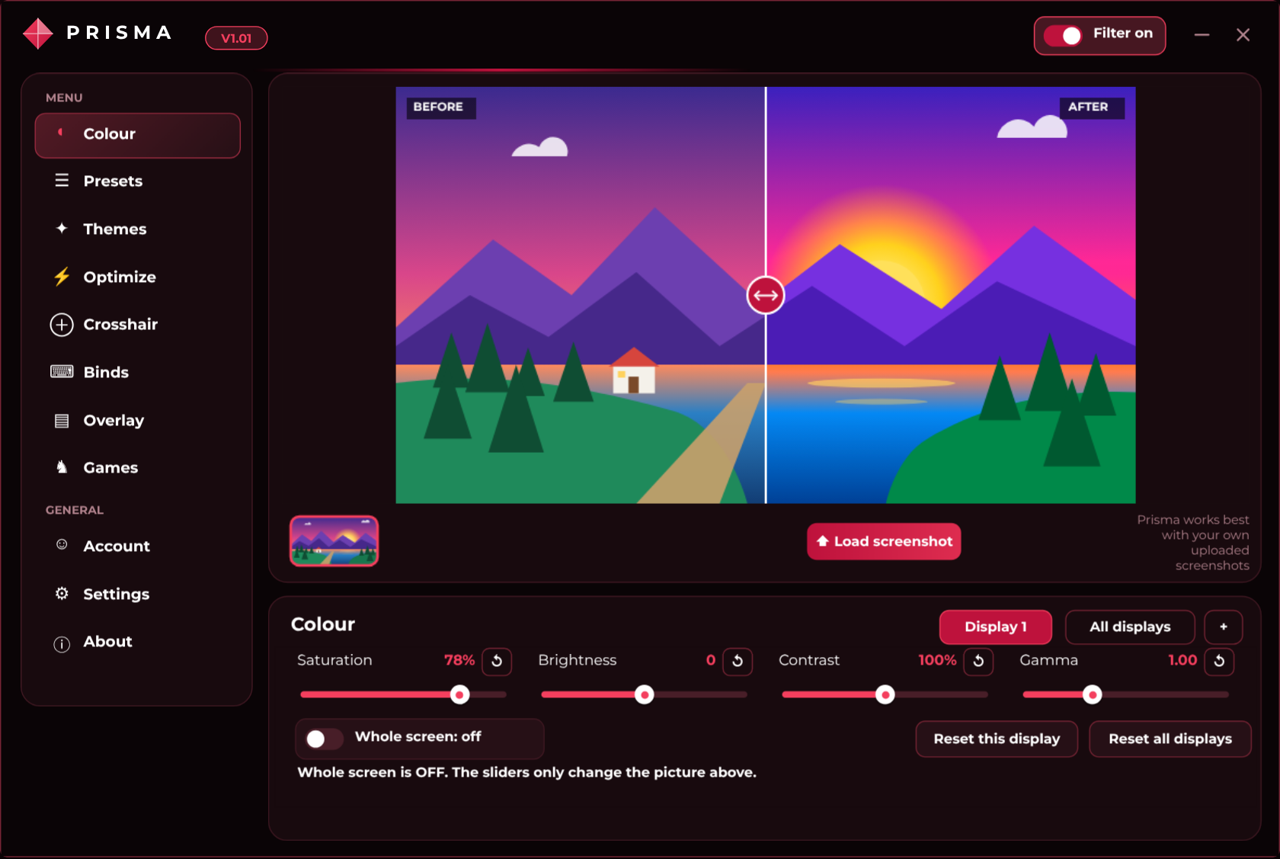
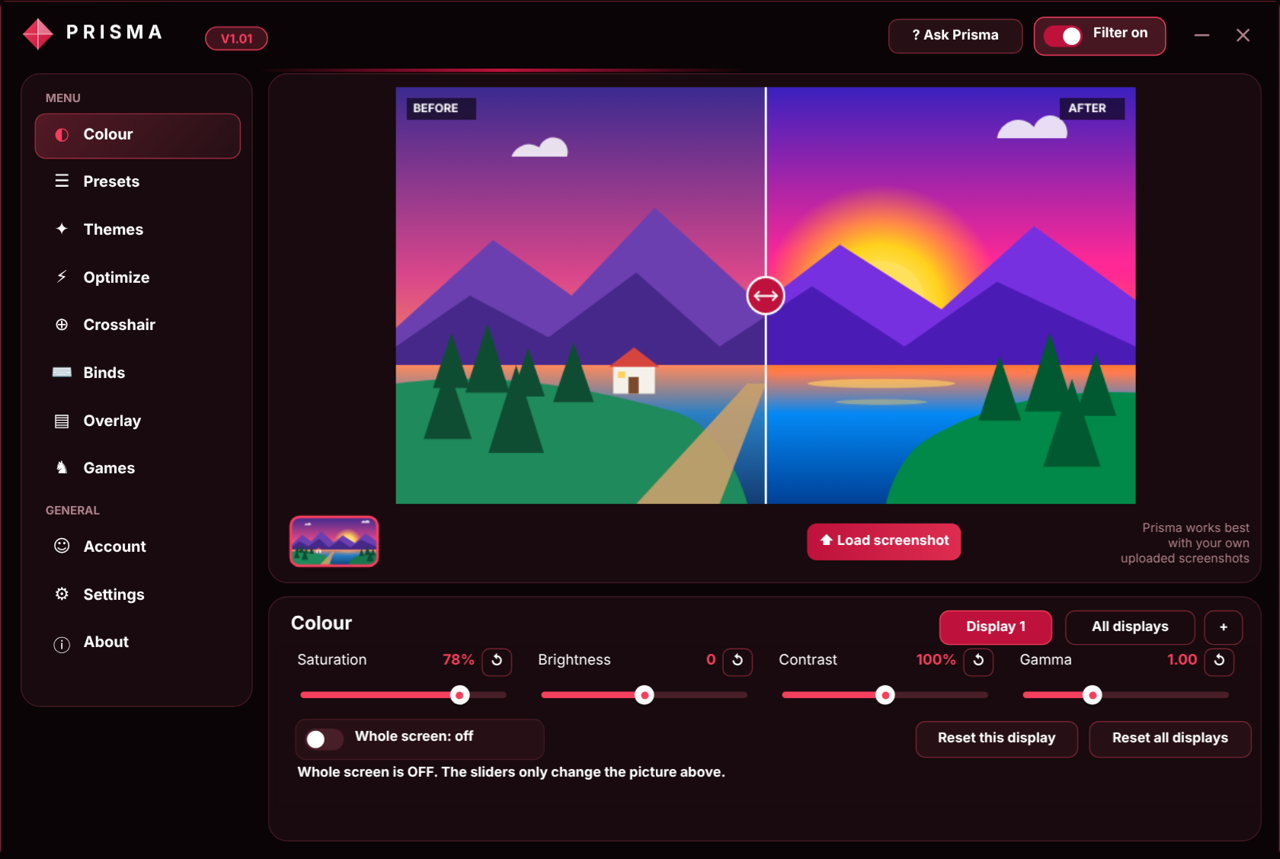
Built-in looks and Find my games
Claude-Session: https://claude.ai/code/session_01YHi3Hj73t35dcKcbvpdqUF

diff --git a/features.html b/features.html
@@ -20,7 +20,7 @@
 <div class="wrap page">
   <h1>Everything Prisma can do</h1><p class="muted">Every tab and every feature in the app, explained.</p>
   <div class="chips-l"><a href="#colour" class="chip-l">Colour</a><a href="#presets" class="chip-l">Presets</a><a href="#games" class="chip-l">Game profiles</a><a href="#crosshair" class="chip-l">Crosshair</a><a href="#overlay" class="chip-l">Overlay</a><a href="#optimize" class="chip-l">Optimizer</a><a href="#binds" class="chip-l">Binds</a><a href="#themes" class="chip-l">Themes</a><a href="#account" class="chip-l">Account & sync</a><a href="#ask" class="chip-l">Ask Prisma</a><a href="#settings" class="chip-l">Settings</a><a href="#faq" class="chip-l">FAQ</a></div>
-  <section class="fsec" id="colour"><div class="card fcard"><div><h2>Colour</h2><p class="muted">Change how your whole screen looks.</p><ul class="ticks"><li><b>Saturation</b> (0–100%) through your NVIDIA driver (digital vibrance). Makes colours pop.</li><li><b>Brightness</b> (−100 to +100), <b>Contrast</b> (50–150%) and <b>Gamma</b> (0.50–2.00) through Windows.</li><li><b>Whole screen</b>: apply your look to your real monitor and your games. Turn it off for normal colours.</li><li><b>Filter on/off</b> button at the top to compare quickly.</li><li><b>Before / after preview</b>: drag the line over the picture to compare.</li><li><b>Load screenshot</b>: test your look on your own game pictures.</li><li><b>Every monitor</b> has its own settings, or use <b>All displays</b> to change them all at once.</li><li>One-click reset per slider, per display or for all displays.</li></ul></div><img class="fimg" src="assets/features/colour.png" alt="Prisma Colour tab" loading="lazy"></div></section><section class="fsec" id="presets"><div class="card fcard"><div><h2>Presets</h2><p class="muted">Save looks you like.</p><ul class="ticks"><li>Give a look a name and press <b>Save look</b>.</li><li>Click a saved look to use it again. Right-click to delete it.</li><li>Looks are used by Game profiles and can be synced with your account.</li></ul></div><img class="fimg" src="assets/features/presets.png" alt="Prisma Presets tab" loading="lazy"></div></section><section class="fsec" id="games"><div class="card fcard"><div><h2>Game profiles</h2><p class="muted">The right look for every game, automatically.</p><ul class="ticks"><li>Add a game by its program name (for example <code>RainbowSix.exe</code>) or with <b>Find game…</b>.</li><li>Pick a <b>look</b> and a <b>crosshair</b> for that game.</li><li>When the game starts, Prisma switches to that look. When it closes, your normal colours come back.</li><li><b>Auto-apply</b> on/off, and a <b>Play</b> button to start the game from Prisma.</li></ul></div><img class="fimg" src="assets/features/games.png" alt="Prisma Game profiles tab" loading="lazy"></div></section><section class="fsec" id="crosshair"><div class="card fcard"><div><h2>Crosshair</h2><p class="muted">Your own crosshair on top of any game.</p><ul class="ticks"><li>4 styles: <b>Cross</b>, <b>Dot</b>, <b>Circle</b> and <b>Cross + dot</b>.</li><li>10 built-in crosshairs: Classic, Tiny dot, Red dot, Ring, Thin cross, Big cross, Pro gap, Cross + dot, Sniper and Soft ring.</li><li>8 colours plus any custom colour.</li><li>Size, thickness, gap, opacity, offset X / Y and a black outline.</li><li>Live preview, save your own crosshairs, and <b>share codes</b> (<code>PRISMA-XH1-…</code>) for friends.</li><li>Works in windowed and borderless games. Click-through, so it never blocks your mouse.</li></ul></div><img class="fimg" src="assets/features/crosshair.png" alt="Prisma Crosshair tab" loading="lazy"></div></section><section class="fsec" id="overlay"><div class="card fcard"><div><h2>Overlay</h2><p class="muted">Your PC stats while you play.</p><ul class="ticks"><li>Shows <b>CPU use</b>, <b>GPU use</b>, <b>RAM</b>, <b>GPU temperature</b>, <b>video memory</b> and <b>FPS</b>.</li><li>Pick any corner, text size (9–24 pt) and opacity.</li><li>GPU numbers use your NVIDIA driver. FPS needs the free PresentMon.exe next to Prisma.exe and Prisma started as administrator.</li></ul></div><img class="fimg" src="assets/features/overlay.png" alt="Prisma Overlay tab" loading="lazy"></div></section><section class="fsec" id="optimize"><div class="card fcard"><div><h2>Optimizer</h2><p class="muted">16 real Windows tweaks for smoother games. All can be undone.</p><ul class="ticks"><li>High performance power plan · Game Mode · Background recording off · Windowed game boost</li><li>Mouse acceleration off · Sticky Keys popup off · Pop-up notifications off · Background apps off</li><li>Transparency off · Window animations off · Game Bar popups off · Taskbar animations off</li><li>Menus open instantly · Windows tips off · Faster key repeat · Faster startup apps</li><li><b>Optimize all</b> in one click, or turn single tweaks on and off. <b>Undo all</b> puts everything back.</li><li>Tools: <b>Clean temp files</b>, <b>Empty recycle bin</b> and <b>Flush DNS cache</b>.</li></ul></div><img class="fimg" src="assets/features/optimize.png" alt="Prisma Optimizer tab" loading="lazy"></div></section><section class="fsec" id="binds"><div class="card fcard"><div><h2>Binds</h2><p class="muted">Control Prisma without leaving your game.</p><ul class="ticks"><li>Hotkeys for: Filter on/off, Whole screen on/off, Crosshair on/off, Show/hide Prisma and Reset all displays.</li><li>Use any key with Ctrl, Alt or Shift, for example <code>Ctrl + Alt + F</code>.</li><li>Prisma tells you if another program already uses that key.</li></ul></div><img class="fimg" src="assets/features/binds.png" alt="Prisma Binds tab" loading="lazy"></div></section><section class="fsec" id="themes"><div class="card fcard"><div><h2>Themes</h2><p class="muted">Make Prisma look the way you like.</p><ul class="ticks"><li>7 themes: <b>Crimson</b> (default), Purple, Ocean, Matrix, Sunset, Mono and Custom.</li><li>Custom: pick your own accent, background and panel colours.</li><li><b>Roundness</b> slider for how round the corners are.</li></ul></div><img class="fimg" src="assets/features/themes.png" alt="Prisma Themes tab" loading="lazy"></div></section><section class="fsec" id="account"><div class="card fcard"><div><h2>Account & sync</h2><p class="muted">Your setup on every PC.</p><ul class="ticks"><li>A free account is needed to use Prisma. It's the same account as on this website.</li><li><b>Upload</b> your looks, crosshairs and game profiles. <b>Download</b> them on another PC.</li><li>Safe login: 5 wrong tries, then a 5 minute wait. Forgot your password? Reset it by email.</li><li>Delete your account and data any time on the website.</li></ul></div><img class="fimg" src="assets/features/account.png" alt="Prisma Account & sync tab" loading="lazy"></div></section><section class="fsec" id="ask"><div class="card fcard"><div><h2>Ask Prisma</h2><p class="muted">Help built right in.</p><ul class="ticks"><li>Press <b>? Ask Prisma</b> and click one of 20 popular questions to get the answer.</li><li>Covers colours, presets, crosshair, overlay, FPS, games, binds, account, monitors, uninstalling and more.</li><li>Works offline.</li></ul></div><img class="fimg" src="assets/features/ask.png" alt="Prisma Ask Prisma tab" loading="lazy"></div></section><section class="fsec" id="settings"><div class="card fcard"><div><h2>Settings</h2><p class="muted">Make Prisma fit you.</p><ul class="ticks"><li>Start with Windows · Start minimised · Show start screen · Start animation</li><li>Keep colours applied · Sound cues · Background animation · Instant mode (turns off all motion)</li><li>Check for updates · Replay the tour · Open settings folder · Reset Prisma settings</li><li>A short first-run tour shows you everything in about a minute.</li></ul></div><img class="fimg" src="assets/features/settings.png" alt="Prisma Settings tab" loading="lazy"></div></section>
+  <section class="fsec" id="colour"><div class="card fcard"><div><h2>Colour</h2><p class="muted">Change how your whole screen looks.</p><ul class="ticks"><li><b>Saturation</b> (0–100%) through your NVIDIA driver (digital vibrance). Makes colours pop.</li><li><b>Brightness</b> (−100 to +100), <b>Contrast</b> (50–150%) and <b>Gamma</b> (0.50–2.00) through Windows.</li><li><b>Whole screen</b>: apply your look to your real monitor and your games. Turn it off for normal colours.</li><li><b>Filter on/off</b> button at the top to compare quickly.</li><li><b>Before / after preview</b>: drag the line over the picture to compare.</li><li><b>Load screenshot</b>: test your look on your own game pictures.</li><li><b>Every monitor</b> has its own settings, or use <b>All displays</b> to change them all at once.</li><li>One-click reset per slider, per display or for all displays.</li></ul></div><img class="fimg" src="assets/features/colour.png" alt="Prisma Colour tab" loading="lazy"></div></section><section class="fsec" id="presets"><div class="card fcard"><div><h2>Presets</h2><p class="muted">Save looks you like.</p><ul class="ticks"><li>5 built-in looks to start with: <b>Competitive</b>, <b>Vivid</b>, <b>Cinematic</b>, <b>Night</b> and <b>Natural</b>.</li><li>Give your own look a name and press <b>Save look</b>.</li><li>Click a saved look to use it again. Right-click to delete it.</li><li>Looks are used by Game profiles and can be synced with your account.</li></ul></div><img class="fimg" src="assets/features/presets.png" alt="Prisma Presets tab" loading="lazy"></div></section><section class="fsec" id="games"><div class="card fcard"><div><h2>Game profiles</h2><p class="muted">The right look for every game, automatically.</p><ul class="ticks"><li><b>Find my games</b> lists your installed <b>Steam</b> and <b>Epic Games</b> games. Click one to add it.</li><li>Or add a game by its program name (for example <code>RainbowSix.exe</code>) or with <b>Find game…</b>.</li><li>Pick a <b>look</b> and a <b>crosshair</b> for that game.</li><li>When the game starts, Prisma switches to that look. When it closes, your normal colours come back.</li><li><b>Auto-apply</b> on/off, and a <b>Play</b> button to start the game from Prisma.</li></ul></div><img class="fimg" src="assets/features/games.png" alt="Prisma Game profiles tab" loading="lazy"></div></section><section class="fsec" id="crosshair"><div class="card fcard"><div><h2>Crosshair</h2><p class="muted">Your own crosshair on top of any game.</p><ul class="ticks"><li>4 styles: <b>Cross</b>, <b>Dot</b>, <b>Circle</b> and <b>Cross + dot</b>.</li><li>10 built-in crosshairs: Classic, Tiny dot, Red dot, Ring, Thin cross, Big cross, Pro gap, Cross + dot, Sniper and Soft ring.</li><li>8 colours plus any custom colour.</li><li>Size, thickness, gap, opacity, offset X / Y and a black outline.</li><li>Live preview, save your own crosshairs, and <b>share codes</b> (<code>PRISMA-XH1-…</code>) for friends.</li><li>Works in windowed and borderless games. Click-through, so it never blocks your mouse.</li></ul></div><img class="fimg" src="assets/features/crosshair.png" alt="Prisma Crosshair tab" loading="lazy"></div></section><section class="fsec" id="overlay"><div class="card fcard"><div><h2>Overlay</h2><p class="muted">Your PC stats while you play.</p><ul class="ticks"><li>Shows <b>CPU use</b>, <b>GPU use</b>, <b>RAM</b>, <b>GPU temperature</b>, <b>video memory</b> and <b>FPS</b>.</li><li>Pick any corner, text size (9–24 pt) and opacity.</li><li>GPU numbers use your NVIDIA driver. FPS needs the free PresentMon.exe next to Prisma.exe and Prisma started as administrator.</li></ul></div><img class="fimg" src="assets/features/overlay.png" alt="Prisma Overlay tab" loading="lazy"></div></section><section class="fsec" id="optimize"><div class="card fcard"><div><h2>Optimizer</h2><p class="muted">16 real Windows tweaks for smoother games. All can be undone.</p><ul class="ticks"><li>High performance power plan · Game Mode · Background recording off · Windowed game boost</li><li>Mouse acceleration off · Sticky Keys popup off · Pop-up notifications off · Background apps off</li><li>Transparency off · Window animations off · Game Bar popups off · Taskbar animations off</li><li>Menus open instantly · Windows tips off · Faster key repeat · Faster startup apps</li><li><b>Optimize all</b> in one click, or turn single tweaks on and off. <b>Undo all</b> puts everything back.</li><li>Tools: <b>Clean temp files</b>, <b>Empty recycle bin</b> and <b>Flush DNS cache</b>.</li></ul></div><img class="fimg" src="assets/features/optimize.png" alt="Prisma Optimizer tab" loading="lazy"></div></section><section class="fsec" id="binds"><div class="card fcard"><div><h2>Binds</h2><p class="muted">Control Prisma without leaving your game.</p><ul class="ticks"><li>Hotkeys for: Filter on/off, Whole screen on/off, Crosshair on/off, Show/hide Prisma and Reset all displays.</li><li>Use any key with Ctrl, Alt or Shift, for example <code>Ctrl + Alt + F</code>.</li><li>Prisma tells you if another program already uses that key.</li></ul></div><img class="fimg" src="assets/features/binds.png" alt="Prisma Binds tab" loading="lazy"></div></section><section class="fsec" id="themes"><div class="card fcard"><div><h2>Themes</h2><p class="muted">Make Prisma look the way you like.</p><ul class="ticks"><li>7 themes: <b>Crimson</b> (default), Purple, Ocean, Matrix, Sunset, Mono and Custom.</li><li>Custom: pick your own accent, background and panel colours.</li><li><b>Roundness</b> slider for how round the corners are.</li></ul></div><img class="fimg" src="assets/features/themes.png" alt="Prisma Themes tab" loading="lazy"></div></section><section class="fsec" id="account"><div class="card fcard"><div><h2>Account & sync</h2><p class="muted">Your setup on every PC.</p><ul class="ticks"><li>A free account is needed to use Prisma. It's the same account as on this website.</li><li><b>Upload</b> your looks, crosshairs and game profiles. <b>Download</b> them on another PC.</li><li>Safe login: 5 wrong tries, then a 5 minute wait. Forgot your password? Reset it by email.</li><li>Delete your account and data any time on the website.</li></ul></div><img class="fimg" src="assets/features/account.png" alt="Prisma Account & sync tab" loading="lazy"></div></section><section class="fsec" id="ask"><div class="card fcard"><div><h2>Ask Prisma</h2><p class="muted">Help built right in.</p><ul class="ticks"><li>Press <b>? Ask Prisma</b> and click one of 20 popular questions to get the answer.</li><li>Covers colours, presets, crosshair, overlay, FPS, games, binds, account, monitors, uninstalling and more.</li><li>Works offline.</li></ul></div><img class="fimg" src="assets/features/ask.png" alt="Prisma Ask Prisma tab" loading="lazy"></div></section><section class="fsec" id="settings"><div class="card fcard"><div><h2>Settings</h2><p class="muted">Make Prisma fit you.</p><ul class="ticks"><li>Start with Windows · Start minimised · Show start screen · Start animation</li><li>Keep colours applied · Sound cues · Background animation · Instant mode (turns off all motion)</li><li>Check for updates · Replay the tour · Open settings folder · Reset Prisma settings</li><li>A short first-run tour shows you everything in about a minute.</li></ul></div><img class="fimg" src="assets/features/settings.png" alt="Prisma Settings tab" loading="lazy"></div></section>
   <section class="fsec" id="faq"><h2 style="font-size:32px;margin-bottom:16px">FAQ</h2><details class="card faq"><summary>Is Prisma free?</summary><p class="muted">Yes, Prisma is free while it's in beta. You just need a free account.</p></details><details class="card faq"><summary>What do I need?</summary><p class="muted">Windows 10 or 11 (64-bit) and an NVIDIA graphics card for saturation. Brightness, contrast and gamma work on any card.</p></details><details class="card faq"><summary>Does it change my games?</summary><p class="muted">No. Prisma changes your screen colours through your driver and Windows. It never touches game files.</p></details><details class="card faq"><summary>Can I get banned?</summary><p class="muted">Prisma doesn't touch game files, but some games don't allow overlays like a crosshair. Check each game's rules before you use the crosshair or overlay in ranked matches.</p></details><details class="card faq"><summary>Why does Windows warn me when I install?</summary><p class="muted">Prisma is new and not code-signed yet, so Windows SmartScreen doesn't know it. Click <b>More info → Run anyway</b>.</p></details><details class="card faq"><summary>Can I undo the Optimizer?</summary><p class="muted">Yes. Every tweak can be turned off, and <b>Undo all</b> puts everything back the way it was.</p></details><details class="card faq"><summary>How do I get normal colours back?</summary><p class="muted">Turn <b>Whole screen</b> off, or press <b>Reset all displays</b>.</p></details><details class="card faq"><summary>Where are my settings?</summary><p class="muted">In <code>%APPDATA%\Prisma</code> on your PC. Synced settings are in your account.</p></details><details class="card faq"><summary>How do I uninstall?</summary><p class="muted">Turn Whole screen off, then Windows Settings → Apps → Installed apps → Prisma → Uninstall.</p></details></section>
   <div class="cta-band" style="margin-top:40px"><h2>See it for yourself</h2><p class="muted">Try the full app in your browser, or download it.</p>
   <div class="actions" style="justify-content:center"><a class="btn btn-lg" data-dl href="download.html"><svg viewBox="0 0 24 24" fill="none" stroke="currentColor" stroke-width="2.2" stroke-linecap="round" stroke-linejoin="round"><path d="M12 3v12m0 0-5-5m5 5 5-5M4 21h16"/></svg> Download Prisma</a><a class="btn btn-lg btn-ghost" href="demo.html">Try the demo</a></div></div>

diff --git a/demo.js b/demo.js
@@ -26,7 +26,7 @@
   const mins = [0, -100, 50, 50], maxs = [100, 100, 150, 200], names = ["Saturation", "Brightness", "Contrast", "Gamma"], keys = ["sat", "bri", "con", "gam"];
   let filterOn = true, screenOn = false, allMode = false, page = 0, panelOpen = true;
   let animOn = true, soundOn = false, warpOn = true, tourDone = LS.get("tour") === "1";
-  const pnames = ["Vivid", "Night"], pvals = { Vivid: [80, 0, 110, 100], Night: [60, 20, 100, 135] };
+  const pnames = ["Competitive", "Vivid", "Cinematic", "Night", "Natural"], pvals = { Competitive: [75, 5, 110, 110], Vivid: [85, 0, 115, 100], Cinematic: [60, -5, 120, 90], Night: [55, 20, 95, 130], Natural: [50, 0, 100, 100] };
 
   host.innerHTML = "";
   const root = document.createElement("div"); root.id = "prisma"; host.appendChild(root);
@@ -549,6 +549,19 @@
   const lp = rpanel(gmPanel, 0, 294, 916, 414);
   label(lp, "Your games", 18, 12, 300, 26, "#fff", 12, true);
   const gmList = box(lp, "scroll", 18, 50, 880, 350);
+  const foundP = rpanel(gmPanel, 0, 294, 916, 414); foundP.style.display = "none";
+  const foundT = label(foundP, "", 18, 12, 700, 26, "#fff", 12, true);
+  label(foundP, "Click a game to fill it in above. Then pick a look and press Add game.", 18, 42, 700, 22, MUTE, 9);
+  rbtn(foundP, "Close", 796, 10, 100, 34, 2, () => (foundP.style.display = "none"));
+  const foundL = flow(foundP, 14, 72, 888, 330);
+  pill(lp, "Find my games", 716, 10, 180, 34, () => {
+    foundL.innerHTML = ""; foundT.textContent = "Looking for your games..."; foundP.style.display = "";
+    setTimeout(() => {
+      const g = [["Neon Drift", "NeonDrift.exe"], ["Frontline Ops", "FrontlineOps.exe"], ["Skyreach", "Skyreach.exe"], ["Hollow Depths", "HollowDepths.exe"], ["Turbo Karts", "TurboKarts.exe"]];
+      foundT.textContent = "Found " + g.length + " games (demo examples)";
+      g.forEach(([n, exe]) => flowBtn(foundL, n, false, () => { gmBox.value = exe; foundP.style.display = "none"; gmStatus.textContent = n + " picked. Now click a look and press Add game."; }));
+    }, 700);
+  }, "\u2315");
   function refreshGames() {
     gmPick.innerHTML = "";
     if (!pnames.length) { const e = document.createElement("div"); e.className = "lbl"; e.style.color = "var(--mute)"; e.textContent = "No looks yet. Save one on the Presets tab first."; gmPick.appendChild(e); }
@@ -772,7 +785,7 @@
 
 
   // ---------- Ask Prisma (same answers as the app) ----------
-  const AskK = [["hi", "hello", "hey", "hej"], ["saturation", "vibrance", "not working", "nothing happens", "doesnt work", "does not work"], ["whole screen", "in game", "ingame", "game colour", "game color", "apply"], ["fps", "presentmon", "frames"], ["crosshair", "cross", "share", "code", "import"], ["preset", "look", "save"], ["games", "profile", "auto", "exe", "switch"], ["bind", "hotkey", "shortcut", "key"], ["optimiz", "optimis", "tweak", "undo", "faster", "boost"], ["ban", "anti-cheat", "anticheat", "safe", "allowed", "cheat", "vac"], ["account", "sync", "upload", "download", "cloud", "pc"], ["password", "forgot", "login", "log in", "locked", "tries"], ["reset", "wrong", "weird", "strange", "dark", "bright"], ["theme", "colour of app", "crimson", "round", "custom"], ["start with windows", "startup", "minimis", "minimiz", "boot"], ["lag", "slow", "laggy", "instant"], ["monitor", "display", "screens", "second"], ["uninstall", "remove", "delete prisma"], ["folder", "appdata", "settings file", "where"], ["overlay", "cpu", "gpu", "temp", "ram", "vram", "stats"]], AskA = ["Prisma is a game toolkit for NVIDIA PCs. It changes your screen colours, adds a crosshair and stats overlay, switches looks per game, and has Windows tweaks for smoother games.", "Saturation uses your NVIDIA driver. Update the driver and restart Prisma. The message under the sliders on the Colour tab tells you the exact reason. Brightness, contrast and gamma work even without NVIDIA.", "Turn on Whole screen on the Colour tab. Then your look shows on your real monitor and in your games. Borderless or windowed mode works best.", "FPS needs the free PresentMon.exe (from the PresentMon project on GitHub). Put it next to Prisma.exe, start Prisma as administrator, and turn on FPS on the Overlay tab.", "Go to the Crosshair tab, pick a style or a built-in crosshair, and turn Crosshair on. It shows in windowed and borderless games. Press Copy code to share it. Your friend uses Import code.", "Set the sliders the way you like, open Presets, type a name and press Save look. Click a saved look to use it again. Right-click it to delete it.", "Open the Games tab. Type the game's program name (for example RainbowSix.exe) or press Find game..., click a look, then press Add game. Prisma switches when the game starts and puts your colours back when it closes.", "Open the Binds tab, click a key box and press your keys together with Ctrl, Alt or Shift, for example Ctrl + Alt + F. Esc cancels.", "The Optimize tab has 16 Windows tweaks for smoother games. Press Optimize all, or turn single tweaks on. Undo all puts everything back.", "Prisma changes your screen colours through your driver and Windows. It does not touch game files. Some games do not allow overlays like a crosshair, so check the game's rules first. You use it at your own risk.", "On the Account tab, Upload saves your looks, crosshairs and game profiles online. On another PC, log in and press Download to get them back.", "Forgot your password? Click Forgot your password? on the login screen and we send you a reset email. After 5 wrong tries you wait 5 minutes.", "If colours look wrong, press Reset all displays on the Colour tab, or turn Whole screen off.", "Open Themes to pick a theme, make your own with Custom, and change how round the corners are with Roundness.", "In Settings you can turn on Start with Windows and Start minimised.", "If Prisma feels laggy, turn on Instant mode in Settings. It turns off all motion.", "Every monitor has its own settings. Use the Display buttons on the Colour tab, or All displays to change them all. After plugging in a monitor, press +.", "Turn Whole screen off first, then go to Windows Settings > Apps > Installed apps > Prisma > Uninstall.", "Your Prisma settings are in %APPDATA%\\Prisma. Settings > Open settings folder opens it.", "The Overlay tab shows CPU, GPU, RAM, GPU temperature and video memory on top of your game. Pick a corner, text size and opacity, then turn Overlay on."];
+  const AskK = [["hi", "hello", "hey", "hej"], ["saturation", "vibrance", "not working", "nothing happens", "doesnt work", "does not work"], ["whole screen", "in game", "ingame", "game colour", "game color", "apply"], ["fps", "presentmon", "frames"], ["crosshair", "cross", "share", "code", "import"], ["preset", "look", "save"], ["games", "profile", "auto", "exe", "switch"], ["bind", "hotkey", "shortcut", "key"], ["optimiz", "optimis", "tweak", "undo", "faster", "boost"], ["ban", "anti-cheat", "anticheat", "safe", "allowed", "cheat", "vac"], ["account", "sync", "upload", "download", "cloud", "pc"], ["password", "forgot", "login", "log in", "locked", "tries"], ["reset", "wrong", "weird", "strange", "dark", "bright"], ["theme", "colour of app", "crimson", "round", "custom"], ["start with windows", "startup", "minimis", "minimiz", "boot"], ["lag", "slow", "laggy", "instant"], ["monitor", "display", "screens", "second"], ["uninstall", "remove", "delete prisma"], ["folder", "appdata", "settings file", "where"], ["overlay", "cpu", "gpu", "temp", "ram", "vram", "stats"]], AskA = ["Prisma is a game toolkit for NVIDIA PCs. It changes your screen colours, adds a crosshair and stats overlay, switches looks per game, and has Windows tweaks for smoother games.", "Saturation uses your NVIDIA driver. Update the driver and restart Prisma. The message under the sliders on the Colour tab tells you the exact reason. Brightness, contrast and gamma work even without NVIDIA.", "Turn on Whole screen on the Colour tab. Then your look shows on your real monitor and in your games. Borderless or windowed mode works best.", "FPS needs the free PresentMon.exe (from the PresentMon project on GitHub). Put it next to Prisma.exe, start Prisma as administrator, and turn on FPS on the Overlay tab.", "Go to the Crosshair tab, pick a style or a built-in crosshair, and turn Crosshair on. It shows in windowed and borderless games. Press Copy code to share it. Your friend uses Import code.", "Set the sliders the way you like, open Presets, type a name and press Save look. Click a saved look to use it again. Right-click it to delete it.", "Open the Games tab. Press Find my games to list your Steam and Epic games, or type the program name (for example RainbowSix.exe). Click a look, then press Add game. Prisma switches when the game starts and puts your colours back when it closes.", "Open the Binds tab, click a key box and press your keys together with Ctrl, Alt or Shift, for example Ctrl + Alt + F. Esc cancels.", "The Optimize tab has 16 Windows tweaks for smoother games. Press Optimize all, or turn single tweaks on. Undo all puts everything back.", "Prisma changes your screen colours through your driver and Windows. It does not touch game files. Some games do not allow overlays like a crosshair, so check the game's rules first. You use it at your own risk.", "On the Account tab, Upload saves your looks, crosshairs and game profiles online. On another PC, log in and press Download to get them back.", "Forgot your password? Click Forgot your password? on the login screen and we send you a reset email. After 5 wrong tries you wait 5 minutes.", "If colours look wrong, press Reset all displays on the Colour tab, or turn Whole screen off.", "Open Themes to pick a theme, make your own with Custom, and change how round the corners are with Roundness.", "In Settings you can turn on Start with Windows and Start minimised.", "If Prisma feels laggy, turn on Instant mode in Settings. It turns off all motion.", "Every monitor has its own settings. Use the Display buttons on the Colour tab, or All displays to change them all. After plugging in a monitor, press +.", "Turn Whole screen off first, then go to Windows Settings > Apps > Installed apps > Prisma > Uninstall.", "Your Prisma settings are in %APPDATA%\\Prisma. Settings > Open settings folder opens it.", "The Overlay tab shows CPU, GPU, RAM, GPU temperature and video memory on top of your game. Pick a corner, text size and opacity, then turn Overlay on."];
   const askAnswer = (q) => { q = " " + q.toLowerCase().replace(/'/g, "") + " "; let best = -1, score = 0;
     AskK.forEach((ks, i) => { let sc = 0; ks.forEach((k) => { if (q.includes(k.length <= 3 ? " " + k : k)) sc += k.length; }); if (sc > score) { score = sc; best = i; } });
     return best < 0 ? "Sorry, I do not know that yet. Try asking about saturation, presets, the crosshair, the overlay, FPS, games, binds, themes or your account." : AskA[best]; };
